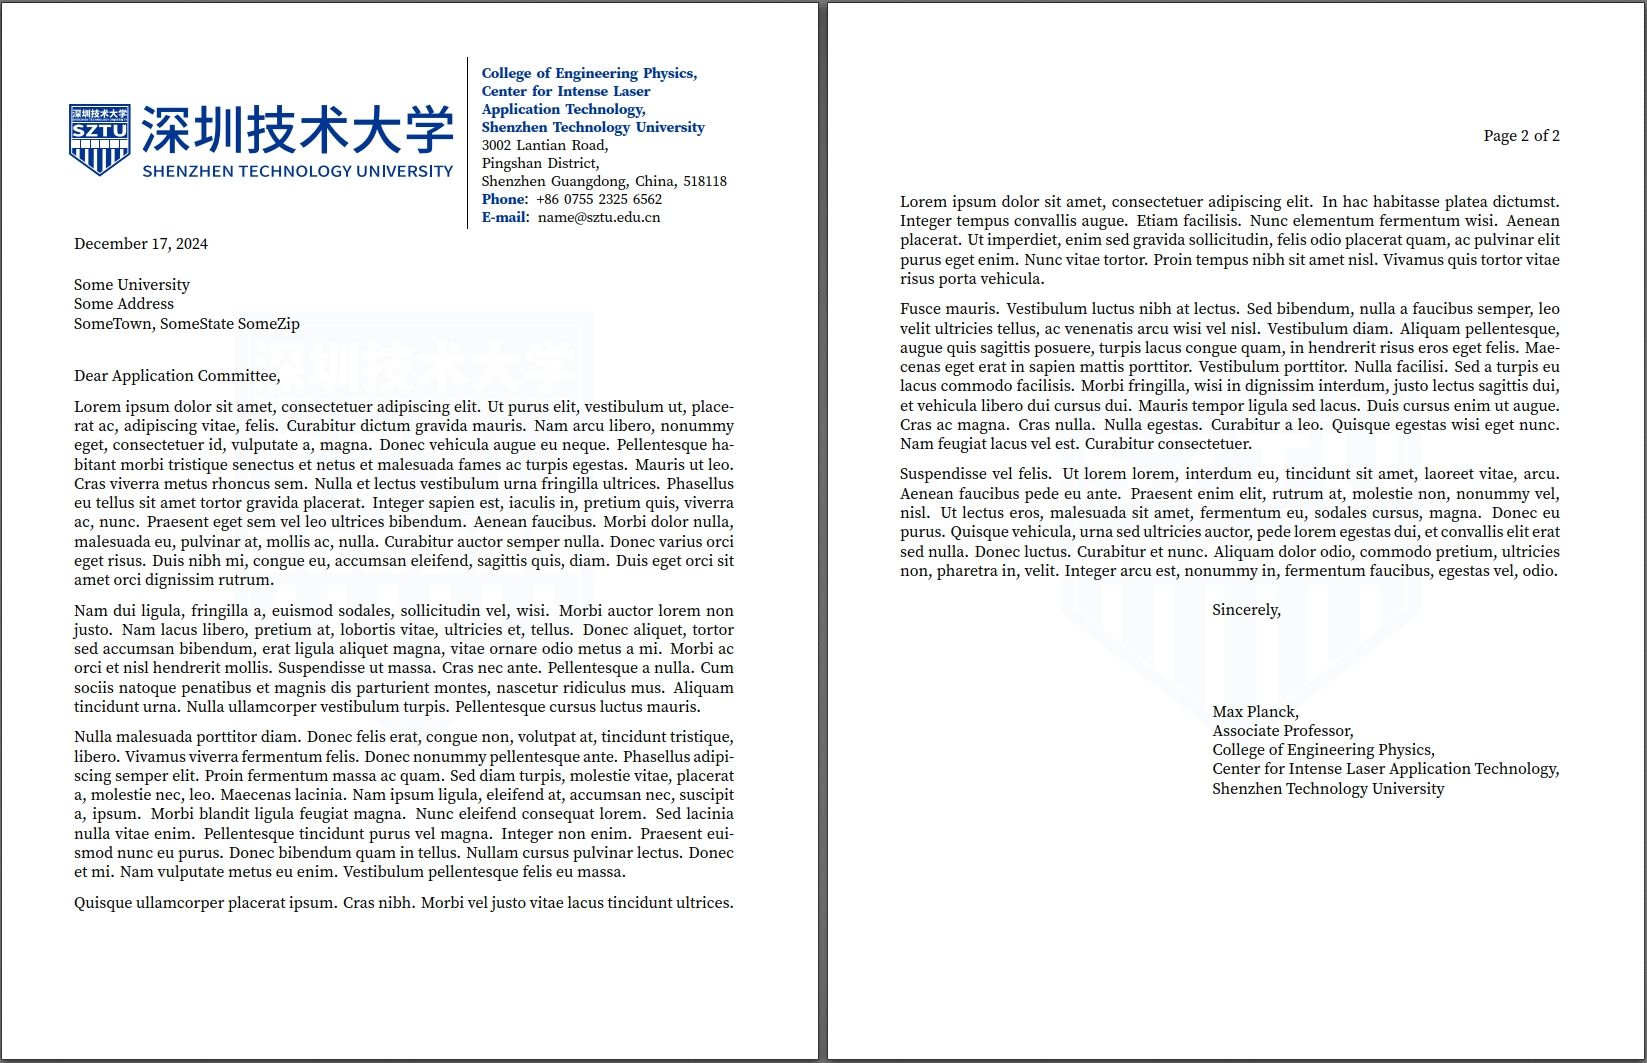
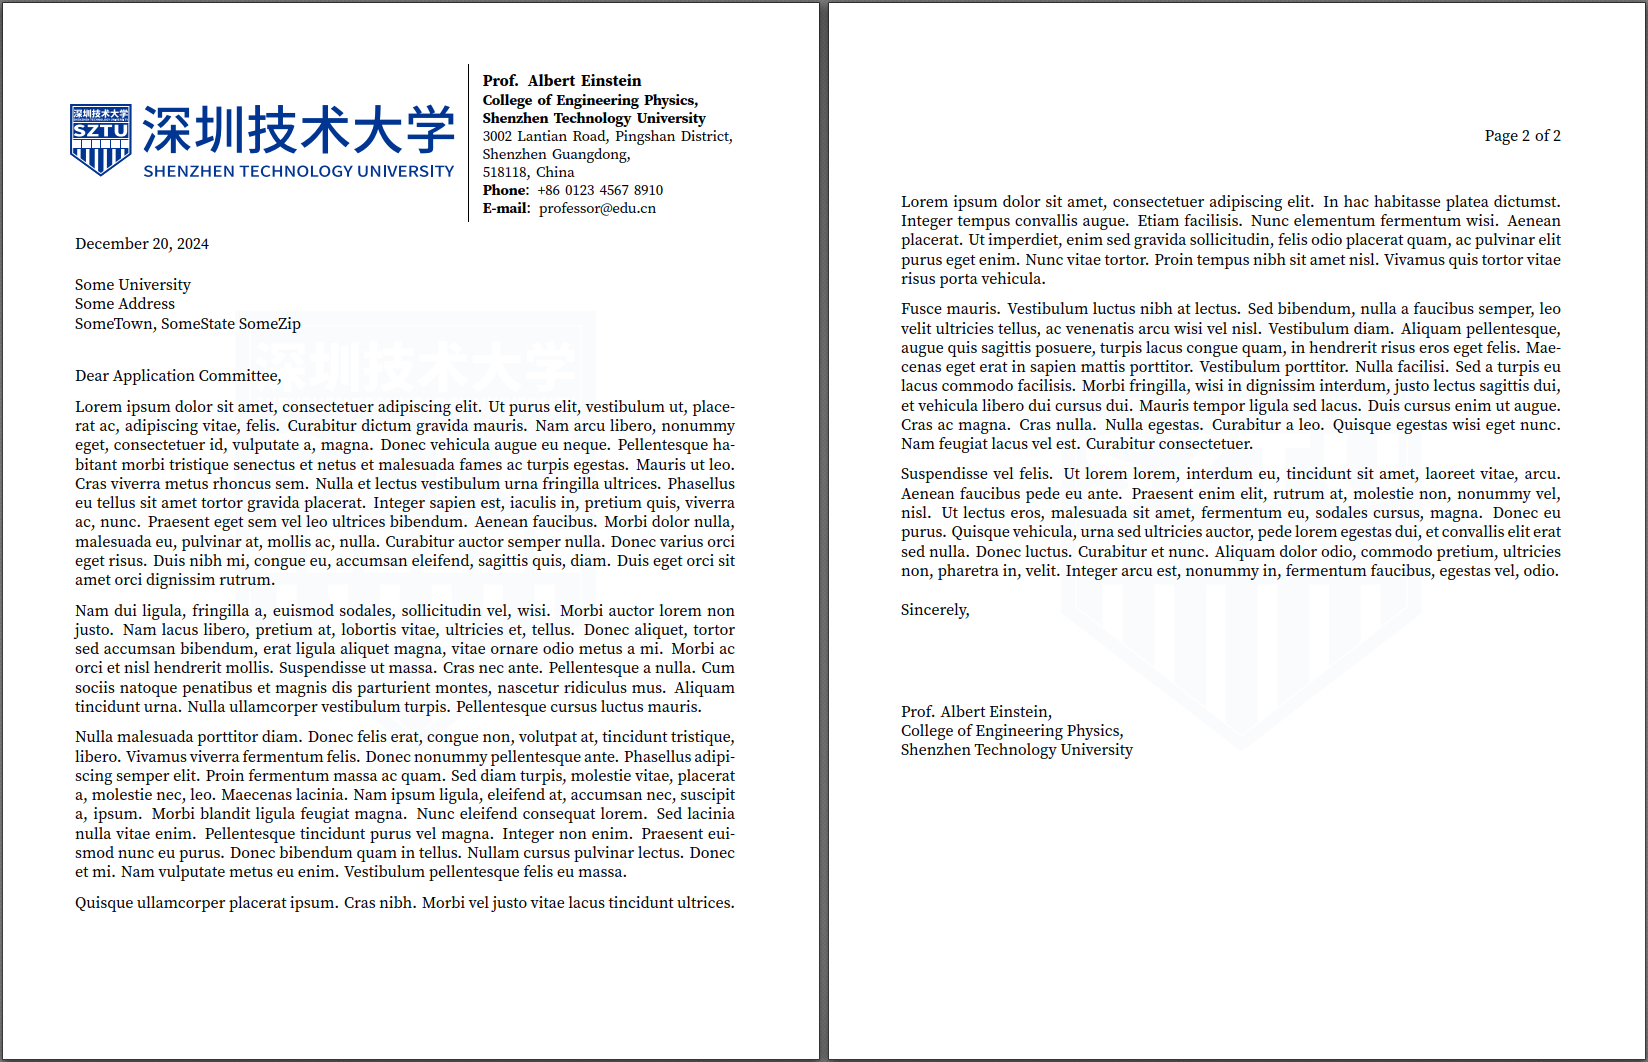
put signature to the right side, change color of address to be more formal

diff --git a/main.tex b/main.tex
@@ -68,31 +68,29 @@ hidelinks,
 \makeatother
 
 %%%%%%%%%%% Put Personal Information Here %%%%%%%%%%%
-\def\name{Max Planck,\\
-Associate Professor,\\
+\def\name{Prof. Albert Einstein,\\
 College of Engineering Physics, \\
-Center for Intense Laser Application Technology, \\
 Shenzhen Technology University
 }
 
+\def\Professor{\scalebox{1.1}{\textbf{Prof. Albert Einstein}}}
+
 %%%%%%%%%%%%  Additional Contact Information %%%%%%%%%%%
-\def\Where{%
-    \textbf{\color{SZTUblue}
-    \href{https://cep.sztu.edu.cn/index.htm}{College of Engineering Physics}, \\
-    Center for Intense Laser \\ Application Technology, \\
+\def\Where{\textbf{\href{https://cep.sztu.edu.cn/index.htm}{College of Engineering Physics}, \\
     \href{https://english.sztu.edu.cn/}{Shenzhen Technology University}}
 }
 
 \def\Address{
-    3002 Lantian Road,\\
+    3002 Lantian Road,
     Pingshan District,
 }
 
-\def\CityZip{Shenzhen Guangdong, China, 518118}
+\def\CityZip{Shenzhen Guangdong, \\ 518118, China }
 
-\def\TEL{\textbf{\color{SZTUblue}Phone}: +86 0755 2325 6562}
+\def\TEL{\textbf{Phone}: +86 0123 4567 8910}
 
-\def\Email{\textbf{\color{SZTUblue}E-mail}: \href{mailto:name@sztu.edu.cn}{name@sztu.edu.cn}} % LOOK TODO path
+\def\Email{\textbf{E-mail}: \href{mailto:professor@edu.cn}{professor@edu.cn}} % LOOK TODO path
+
 
 
 % ^^^ remember to alter the \def\newaddress below at the same time;
@@ -119,6 +117,7 @@ Shenzhen Technology University
 \address{}
 
 \def\newaddress{%
+    \Professor\\
     \Where\\
     \Address\\
     \CityZip\\

diff --git a/README.md b/README.md
@@ -26,6 +26,7 @@
 
 - 添加了href超链接，点击单位自动跳转
 - 去掉了页脚\cfoot
+- 落款靠左 \closing命令处注释掉\hfill
 
 ## :three: 示例
 
